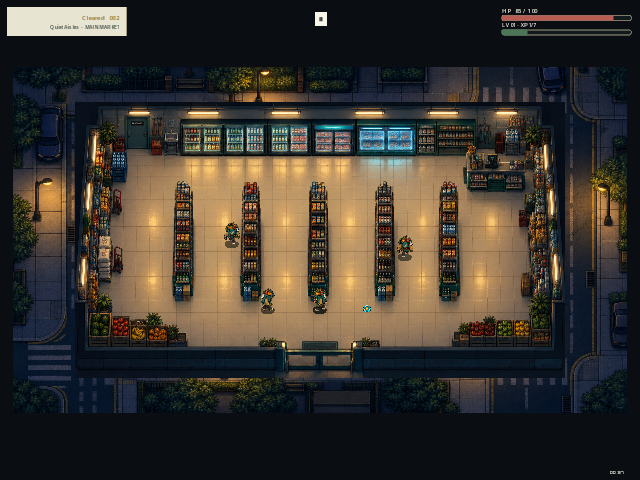
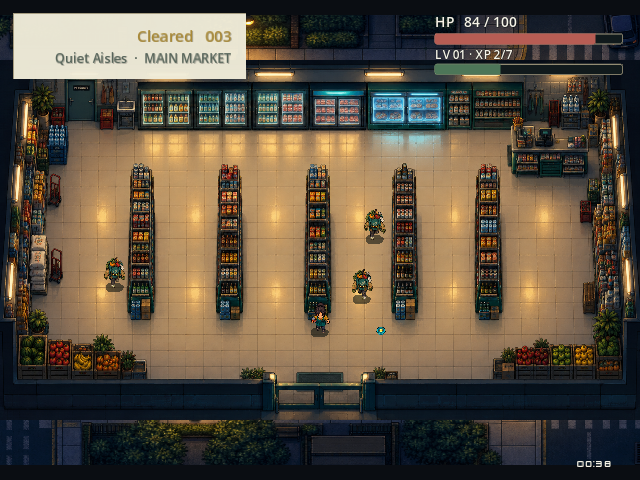
feat(portmaster): finish R36S handheld package

diff --git a/docs/portmaster.md b/docs/portmaster.md
@@ -2,12 +2,18 @@
 
 The PortMaster build is an additional Godot `Linux/X11` PCK export named `PortMaster (Godot 4.7)`. Its `portmaster` custom feature isolates handheld startup, 4:3 UI scaling, and fixed-screen settings from the Android, desktop Linux, and Windows exports.
 
+## R36S 3.5-inch screen layout
+
+R36S uses a 640×480 4:3 display. At PortMaster startup the game sets Godot's `content_scale_size` to 1.5 times the detected panel dimensions and uses `CANVAS_ITEMS` with `EXPAND`. On a 640×480 panel this makes a 960×720 logical canvas, giving interface text and panels more physical pixels than the desktop 1920×1080 design canvas while preserving the display aspect. The PortMaster title panel gets extra width for long Turkish labels, and the title character shifts right to keep the menu clear. Controller UI sizes do not use phone DPI-derived touch sizing. The camera fits the full store width on 4:3. All these changes are behind the `portmaster` feature; the Android, desktop Linux, and Windows project scale and camera paths remain unchanged.
+
+The 640×480 layout was reviewed in an x86_64 Godot/Xvfb simulation. Title, help, settings, records, credits, pause, in-game settings, bonus choices, shop offers, weapon details, results, and an active arena were captured. D-pad focus moved through the title menu; the exported arena and controls were exercised in the simulation. This is not a physical R36S test; ARM64 performance, analog-stick hardware, audio, and firmware compatibility still need device validation.
+
 ## Device and runtime requirements
 
 - 64-bit ARM (`aarch64`) handheld running a PortMaster-compatible firmware. This includes current R36S ArkOS-family builds when their PortMaster runtime supports the device.
 - PortMaster's Godot 4.7.1 and Westonpack 0.2 shared runtimes.
 - Compatibility renderer, ETC2 texture export, keyboard-emulated controller input through `gptokeyb`.
-- PortMaster input is isolated by the `portmaster` custom feature: left stick sends WASD to gameplay movement, D-pad arrows navigate focused menus, A confirms, Start pauses/resumes, B/Select cancels, X interacts, and Y restarts after a run. The PortMaster `$GPTOKEYB` helper supplies firmware-specific Start + Select exit behavior. Existing desktop and Android input paths remain in place.
+- PortMaster input is isolated by the `portmaster` custom feature: left stick sends WASD to gameplay movement, D-pad arrows navigate focused menus, right stick moves the mouse pointer, A sends left-click, B sends right-click, X sends E for interaction, Y sends R to restart after a run, Start sends Escape to pause/resume, and Select sends Escape to cancel. `$GPTOKEYB` also supplies firmware-specific Start + Select exit behavior. The `gptokeyb` format assigns one output to each physical button, so A cannot simultaneously send Enter and left-click; use the right stick to point at a UI button and A to click it. Existing desktop and Android input paths remain in place.
 - Internet access the first time the two shared runtimes are installed.
 
 The PortMaster New runtime manifest currently includes `godot_4.7.1.squashfs` and `weston_pkg_0.2.squashfs` in the `aarch64` runtime bundle. The Godot runtime contains `godot471.aarch64`; the Westonpack runtime contains `westonwrap.sh` and its `crusty_x11egl` renderer. The launcher uses those published filenames.
@@ -16,7 +22,7 @@ The game targets Godot 4.7 and the runtime registry currently exposes Godot 4.7.
 
 ## Controller mapping references
 
-The mapping follows the PortMaster `gptokeyb` configuration model: logical D-pad buttons map to keyboard arrows and the left analog directions map to WASD. `$GPTOKEYB` chooses the firmware-specific exit hotkey and kill method; firmware supplies the SDL controller layout, so the port uses PortMaster logical button names instead of hard-coded raw event IDs. dArkOSRE documents standard D-pad navigation and A confirmation while supporting multiple R36S/clone board variants; the retired ArkOS-R3XS repository points R36S users to dArkOSRE.
+The mapping follows the PortMaster `gptokeyb` configuration model: logical D-pad buttons map to keyboard arrows and the left analog directions map to WASD; the right analog directions map to mouse movement. A/B map to mouse left/right buttons. `$GPTOKEYB` chooses the firmware-specific exit hotkey and kill method; firmware supplies the SDL controller layout, so the port uses PortMaster logical button names instead of hard-coded raw event IDs. dArkOSRE documents standard D-pad navigation and A confirmation while supporting multiple R36S/clone board variants; the retired ArkOS-R3XS repository points R36S users to dArkOSRE.
 
 References: [PortMaster gptokeyb documentation](https://portmaster.games/gptokeyb-documentation.html), [dArkOSRE R36S wiki](https://github.com/southoz/dArkOSRE-R36/wiki/EmulationStation), [ArkOS-R3XS repository](https://github.com/AeolusUX/ArkOS-R3XS).
 
@@ -30,8 +36,16 @@ GODOT_BIN=/path/to/godot-4.7.1 ./scripts/build_portmaster.sh
 
 The script imports project assets, exports the PCK into `port/supermarketthenight/supermarketthenight/`, and creates `builds/portmaster/supermarketthenight.zip`. It does not export or rewrite the Android, desktop Linux, or Windows presets.
 
-PortMaster catalog metadata is kept alongside the package in `port/supermarketthenight/`: `port.json`, `README.md`, the launcher, `gameinfo.xml`, 4:3 gameplay screenshot, controller mapping, and license notices. The Godot and Westonpack runtimes are installed by PortMaster and are not copied into the game archive.
+PortMaster catalog metadata is kept alongside the package in `port/supermarketthenight/`: `port.json`, `README.md`, the launcher, `gameinfo.xml`, 4:3 gameplay screenshot, controller mapping inside the port directory, and license notices. The Godot and Westonpack runtimes are installed by PortMaster and are not copied into the game archive.
+
+The launcher is tracked with mode `0644` per current PortMaster-New reviewer guidance. The catalog screenshot is a clean 640×480 gameplay capture; the runtime package does not include a second copy of that screenshot inside the game data directory.
+
+## PortMaster-New submission steps
+
+The game repository package is a candidate package, not an official catalog submission. Before opening a PortMaster-New PR, follow the current upstream contribution instructions: test the release package with the PortMaster community in Discord `#testing-n-dev`, fix reported issues, and document a hardware/firmware matrix. Current reviewer guidance expects coverage beyond a single device, including Rocknix, MuOS, dArkOS, Knulli, and ArkOS, with a 640×480 test resolution. Then add only this port under `ports/supermarketthenight/` in a PortMaster-New fork, run `python3 tools/build_release.py --do-check`, and submit a PR. The existing x86_64/Xvfb validation does not satisfy the community hardware test stage.
+
+References: [PortMaster-New submission guide](https://github.com/PortsMaster/PortMaster-New#submitting-a-pr), [PortMaster-New reviewer/testing requirements](https://github.com/PortsMaster/PortMaster-New/blob/main/AGENTS.md).
 
 ## Controls
 
-The controller profile maps left stick to WASD gameplay actions, D-pad to repeating arrow keys for menu focus, A to Enter (`ui_accept` on the focused Godot control), Start and B/Select to Escape, X to E (nearby console interaction), and Y to R (restart from results). A activates focused buttons through Godot UI input rather than emitting a literal mouse click. The title, pause, choice, and shop screens create focusable controls. WASD and arrow keys are separate in the PortMaster player movement path. The standard desktop keyboard movement and Android touch movement continue to use their original actions.
+The controller profile maps left stick to WASD gameplay actions, D-pad to repeating arrow keys for menu focus, right stick to mouse movement, A/B to left/right mouse clicks, X to E (nearby console interaction), Y to R (restart from results), Start to Escape (pause), and Select to Escape (cancel). The `gptokeyb` profile format allows one output per button, so A is a literal click rather than Enter; point the cursor at a UI control with the right stick to activate it. Menus retain D-pad focus navigation. WASD and arrow keys are separate in the PortMaster player movement path. The standard desktop keyboard movement and Android touch movement continue to use their original actions.

diff --git a/port/supermarketthenight/README.md b/port/supermarketthenight/README.md
@@ -2,6 +2,8 @@
 
 This package runs the Godot 4.7 project through PortMaster's Godot and Westonpack runtimes. It targets 64-bit ARM handhelds such as the R36S and requires the Godot 4.7.1 and Westonpack 0.2 runtimes.
 
+The 640×480 screenshot shows the game running with the PortMaster handheld layout. It was captured in an x86_64/Xvfb simulation; physical handheld compatibility has not yet been confirmed.
+
 Thanks to Asrın Kılıç (dixtuel) for creating the game.
 
 ## Controls
@@ -9,15 +11,17 @@ Thanks to Asrın Kılıç (dixtuel) for creating the game.
 | Button | Action |
 | --- | --- |
 | Left stick | Move the character |
-| D-pad | Navigate menus and choices |
-| A | Confirm, choose, or continue |
+| D-pad | Navigate menus and choices with focus |
+| Right stick | Move the mouse pointer |
+| A | Left-click the pointed control |
+| B | Right-click |
 | Start | Pause or resume the shift |
-| B / Back | Go back; pause or resume during a shift |
+| Select | Go back or cancel |
 | X | Interact with nearby consoles |
 | Y | Restart after a run |
 | Select + Start | PortMaster's exit shortcut |
 
-The game uses keyboard-style controls through PortMaster's `gptokeyb`. The left-stick WASD actions are reserved for gameplay movement; repeating arrow keys from the D-pad drive Godot menu focus without moving the player. A sends Enter (`ui_accept`), activating the currently focused Godot button like a confirm/click; it does not send a literal mouse click. Menus set an initial focus and expose focus navigation. PortMaster's `$GPTOKEYB` helper supplies the firmware-specific Start + Select exit behavior. Desktop, Android, and touch movement keep the existing input path.
+The game uses PortMaster's `gptokeyb` mapping: left-stick WASD moves the character, repeating D-pad arrows move menu focus, and the right stick moves the pointer. A/B send literal left/right mouse clicks. Since each physical button has one mapping, A is reserved for left-click; point at a UI control with the right stick to activate it. X remains E for nearby console interaction, Y remains R to restart after a run, Start pauses, and Select cancels. PortMaster's `$GPTOKEYB` helper supplies the firmware-specific Start + Select exit behavior. Desktop, Android, and touch movement keep the existing input path.
 
 ## Build
 
